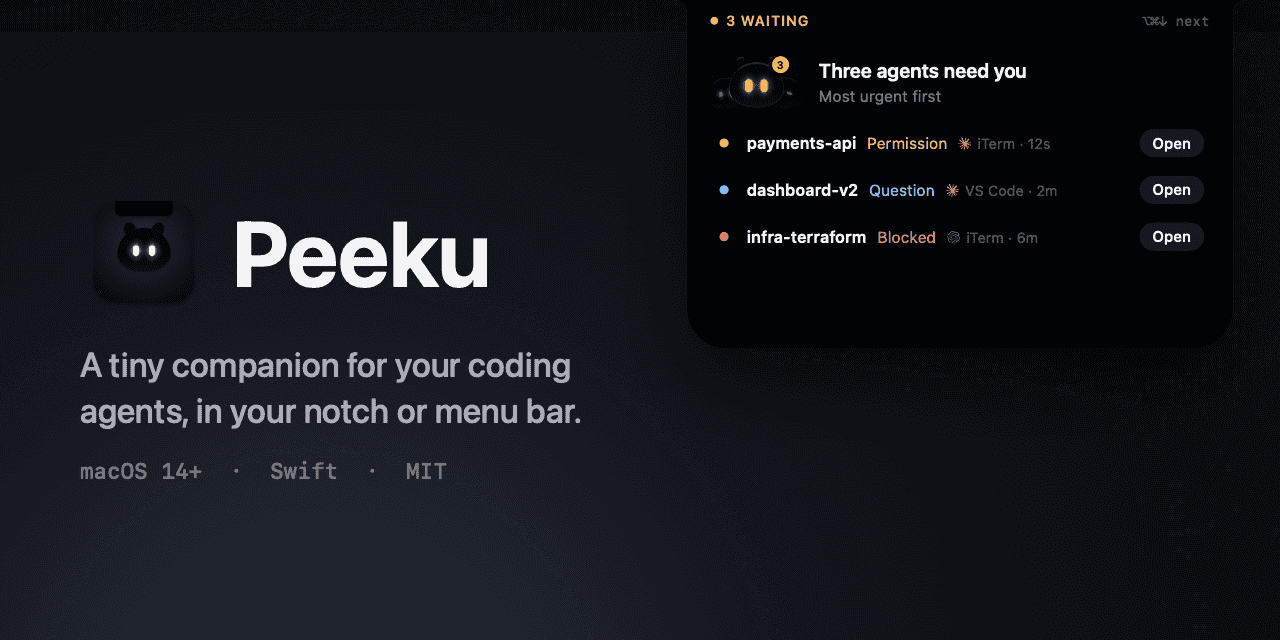
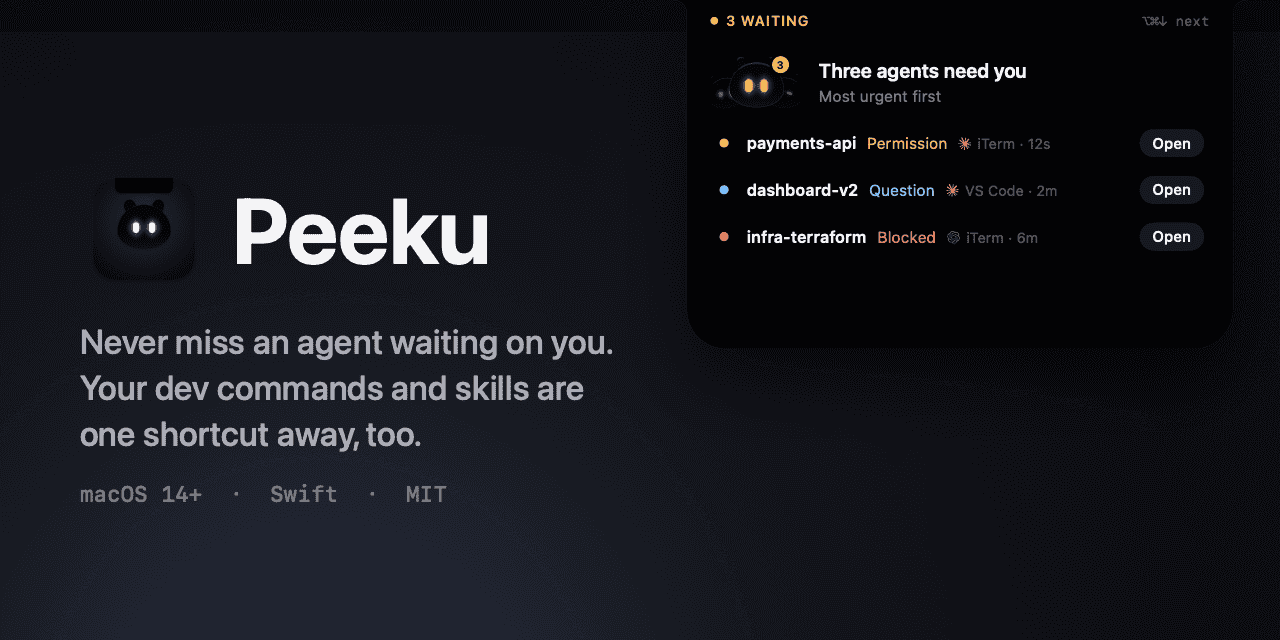
New tagline, and a shorter website
Leads with "Never miss an agent waiting on you" and mentions Commands and Skills in the README, site hero, meta tags and social preview. Cuts the site's repeated content: feature tiles that restated a story row, the second screenshot gallery and the light-mode row.

Changed region(s): [[0.0625, 0.5, 0.4688, 0.7812], [0.1875, 0.3125, 0.4062, 0.4688], [0.0938, 0.2812, 0.1562, 0.4375]]

diff --git a/docs/index.html b/docs/index.html
@@ -4,7 +4,7 @@
 <meta charset="utf-8">
 <meta name="viewport" content="width=device-width, initial-scale=1">
 <title>Peeku: a tiny companion for your coding agents</title>
-<meta name="description" content="A tiny companion for your coding agents. It lives in your notch or menu bar and tells you when Claude Code or Codex needs you.">
+<meta name="description" content="Never miss an agent waiting on you. Peeku peeks out when Claude Code or Codex needs you. Your dev commands and skills are one shortcut away, too.">
 <meta name="theme-color" content="#0d0e12">
 <link rel="canonical" href="https://peeku.ahrefabhi.com/">
 <link rel="icon" type="image/png" href="images/icon.png">
@@ -12,7 +12,7 @@
 <meta property="og:type" content="website">
 <meta property="og:site_name" content="Peeku">
 <meta property="og:title" content="Peeku: a tiny companion for your coding agents">
-<meta property="og:description" content="A tiny companion for your coding agents. It lives in your notch or menu bar and tells you when Claude Code or Codex needs you.">
+<meta property="og:description" content="Never miss an agent waiting on you. Peeku peeks out when Claude Code or Codex needs you. Your dev commands and skills are one shortcut away, too.">
 <meta property="og:url" content="https://peeku.ahrefabhi.com/">
 <meta property="og:image" content="https://peeku.ahrefabhi.com/images/social-preview.png">
 <meta property="og:image:width" content="1280">
@@ -20,7 +20,7 @@
 <meta property="og:image:alt" content="Peeku, a tiny companion in your notch, showing three agents that need you: a permission request, a question and a blocked run">
 <meta name="twitter:card" content="summary_large_image">
 <meta name="twitter:title" content="Peeku: a tiny companion for your coding agents">
-<meta name="twitter:description" content="A tiny companion for your coding agents. It lives in your notch or menu bar and tells you when Claude Code or Codex needs you.">
+<meta name="twitter:description" content="Never miss an agent waiting on you. Peeku peeks out when Claude Code or Codex needs you. Your dev commands and skills are one shortcut away, too.">
 <meta name="twitter:image" content="https://peeku.ahrefabhi.com/images/social-preview.png">
 <meta name="twitter:image:alt" content="Peeku, a tiny companion in your notch, showing three agents that need you: a permission request, a question and a blocked run">
 <link rel="stylesheet" href="site.css">
@@ -89,8 +89,8 @@
       <button type="button" class="chip" data-ev="success"><i style="background:var(--green)"></i>Finished</button>
       <button type="button" class="chip" data-ev="usage"><i style="background:var(--amber)"></i>Usage alert</button>
     </div>
-    <h1>A tiny creature in your notch or menu bar that watches over your agents.</h1>
-    <p class="hero-sub">A tiny companion for your coding agents. It lives in your notch or menu bar and tells you when Claude Code or Codex needs you.</p>
+    <h1>Never miss an agent waiting on you.</h1>
+    <p class="hero-sub">Peeku peeks out when Claude Code or Codex needs you. Your dev commands and skills are one shortcut away, too.</p>
     <div class="hero-ctas">
       <a href="https://github.com/ahrefabhi/peeku/releases/latest" class="btn-primary">Download for macOS</a>
       <a href="https://github.com/ahrefabhi/Peeku" class="btn-secondary">View on GitHub</a>
@@ -134,7 +134,7 @@
     <div class="flow-text">
       <span class="eyebrow" style="color:rgba(235,235,245,.55)">04 · NOTCH OR MENU BAR</span>
       <h2 class="h-md">No notch? It lives in the menu bar.</h2>
-      <p class="lede">On an external display or an older MacBook there's no fake notch. Peeku moves into its own menu bar icon, and the icon's eyes show what it's doing. When an agent needs you, Peeku climbs down from the icon and holds the alert. Prefer it there on a MacBook too? Pick Menu Bar in Settings.</p>
+      <p class="lede">On an external display or an older MacBook, Peeku lives in its own menu bar icon and climbs down from it when an agent needs you. Prefer it there on a MacBook too? Pick Menu Bar in Settings.</p>
     </div>
     <img class="shot" src="images/menu-bar-alert.png" alt="On a display without a notch, Peeku hangs from its menu bar icon above a frosted panel: Claude needs your permission to run npm install stripe@17.2.0" width="1520" height="660" loading="lazy" decoding="async">
   </div>
@@ -150,40 +150,15 @@
     <div class="flow-text">
       <span class="eyebrow" style="color:var(--blue)">06 · YOUR SKILLS</span>
       <h2 class="h-md">Every skill your agents load, in one place.</h2>
-      <p class="lede">See what Claude Code and Codex load, globally and in each project, and turn a plugin off without uninstalling it. Browse their marketplaces, see where each plugin's code lives, and install one for everything or just one project. Add your own skill folders, or share one with the other agent. Press ⌥⌘/.</p>
+      <p class="lede">See every plugin and skill Claude Code and Codex load, globally and per project. Browse their marketplaces, install for everything or just one project, and turn plugins off without uninstalling. Press ⌥⌘/.</p>
     </div>
     <img class="shot" src="images/skills-flow.png" alt="Skills in two panels. Installed: a panel to add a skill folder for Claude globally, superpowers expanded with its four skills and a switch, code-review turned off, GitHub for Codex and a changelog skill. Discover: marketplace plugins with install counts and GitHub links, and playwright asking to install for the payments-api project" width="1520" height="960" loading="lazy" decoding="async">
   </div>
 </section>
 
 <section id="features" class="section">
-  <h2 class="h-lg features-title">Everything it does, and nothing it doesn't.</h2>
+  <h2 class="h-lg features-title">And the little things.</h2>
   <div class="bento">
-
-    <div class="tile wide">
-      <div class="tile-vis why" aria-hidden="true">
-        <div data-pip="question" data-size="56"></div>
-        <div class="why-list">
-          <div style="--c:var(--amber)"><span>$ npm install stripe@17.2.0</span></div>
-          <div style="--c:var(--blue)"><span>Reuse &lt;Popover&gt;, or build a new &lt;ChartTooltip&gt;?</span></div>
-          <div style="--c:var(--red)"><span>Error acquiring the state lock</span></div>
-          <div style="--c:var(--green)"><span>Migrated 14 pages to MDX · build passes</span></div>
-        </div>
-      </div>
-      <div class="tile-body"><b>Knows why a session is waiting.</b><span>Permission requests show the exact command, questions show their choices, errors show the error, and finished runs show the agent's last reply.</span></div>
-    </div>
-
-    <div class="tile">
-      <div class="tile-vis" aria-hidden="true">
-        <div class="mini-win">
-          <div class="mini-win-bar"><i></i><i></i><i></i></div>
-          <div class="mini-win-tabs"><span>docs</span><span class="on"><i></i>payments</span><span>infra</span></div>
-          <div class="mini-win-body"><div class="amber">╭─ Bash</div><div>│ npm install stripe@17.2.0</div><div class="amber">│ ❯ 1. Yes</div><div class="dim">│   2. No</div><div class="mini-win-ring"></div></div>
-        </div>
-      </div>
-      <div class="tile-body"><b>Takes you to the right place.</b><span>Opens the precise iTerm tab, Terminal tab or VS Code window, and outlines it with a brief focus ring.</span></div>
-    </div>
-
     <div class="tile">
       <div class="tile-vis" aria-hidden="true">
         <div class="queue">
@@ -197,13 +172,6 @@
         <kbd class="kbd-float">⌥⌘↓</kbd>
       </div>
       <div class="tile-body"><b>One queue, most urgent first.</b><span>Several agents waiting become one list: permission, then questions, then errors, oldest first. Cycle through it with ⌥⌘↓.</span></div>
-    </div>
-
-    <div class="tile wide">
-      <div class="tile-vis glance">
-        <img src="images/manager.png" alt="Session manager" width="1520" height="1340" loading="lazy" decoding="async">
-      </div>
-      <div class="tile-body"><b>Every session at a glance.</b><span>Click the notch or the menu bar icon for a live list of what's waiting, working and finished, plus a week of history. Any row jumps to its session.</span></div>
     </div>
 
     <div class="tile">
@@ -228,20 +196,6 @@
       <div class="tile-body"><b>Knows what you spent.</b><span>What today, the last 7 or the last 30 days cost at API prices, the tokens used, and a bar per day split by model.</span></div>
     </div>
 
-    <div class="tile wide">
-      <div class="tile-vis glance">
-        <img src="images/commands.png" alt="Commands in the session manager: a dev server running, a worker that exited, and a docs preview waiting for input" width="1520" height="1340" loading="lazy" decoding="async">
-      </div>
-      <div class="tile-body"><b>Runs your dev commands.</b><span>Commands lives in the dock at the bottom of the session manager, never in the tabs. Start, restart and stop saved commands, read their output, answer their prompts, and see how many are running at a glance.</span></div>
-    </div>
-
-    <div class="tile wide">
-      <div class="tile-vis glance">
-        <img src="images/skills.png" alt="Skills in the session manager: Claude Code and Codex plugins and skills, globally and per project, with a switch to turn a plugin off" width="1520" height="1340" loading="lazy" decoding="async">
-      </div>
-      <div class="tile-body"><b>Manages your skills.</b><span>Skills sits in the dock too. Browse the Claude Code and Codex marketplaces, install a plugin for everything or one project, turn it off, uninstall it, and add or share skill folders between agents.</span></div>
-    </div>
-
     <div class="tile">
       <div class="tile-vis sounds" aria-hidden="true">
         <div class="sound"><div class="eq" style="--c:var(--amber);--d:0s"><i></i><i></i><i></i><i></i><i></i></div><span>Permission</span></div>
@@ -250,14 +204,6 @@
         <div class="sound"><div class="eq" style="--c:var(--green);--d:.6s"><i></i><i></i><i></i><i></i><i></i></div><span>Finished</span></div>
       </div>
       <div class="tile-body"><b>Sounds you can tell apart.</b><span>A different chime for permission, questions, errors and finished runs, each one changeable or silenced in Settings.</span></div>
-    </div>
-
-    <div class="tile">
-      <div class="tile-vis away" aria-hidden="true">
-        <div class="pill"><div class="pill-pip"><div data-pip="multiple" data-size="20" data-opts="flat,noBadge"></div></div><div class="pill-count">3</div></div>
-        <div class="fullscreen"><div></div><span>full screen</span></div>
-      </div>
-      <div class="tile-body"><b>Stays out of the way.</b><span>Unanswered alerts fold into a small pill. In full screen Peeku shrinks to a thin glow, and it goes quiet while Zoom shares your screen or when you ask it to.</span></div>
     </div>
 
     <div class="tile">
@@ -278,57 +224,26 @@
       </div>
       <div class="tile-body"><b>Private.</b><span>Your sessions stay on your Mac. The only network request Peeku makes is its update check to GitHub. Plugins you choose to install are downloaded by Claude Code or Codex.</span></div>
     </div>
-
-    <div class="tile">
-      <div class="tile-vis native" aria-hidden="true">
-        <div class="native-half"><div data-pip="success" data-size="50"></div></div>
-        <div class="native-half light"><div data-pip="success" data-size="50" data-ring="#eceef3"></div></div>
-        <div class="native-badge"><b>6 MB</b><span>Swift · SwiftUI</span></div>
-      </div>
-      <div class="tile-body"><b>Native.</b><span>Swift and SwiftUI, light and dark mode, Reduce Motion, about 6 MB.</span></div>
-    </div>
-
   </div>
 </section>
 
 <section class="section closer">
   <div class="closer-head">
-    <h2 class="h-lg">Every session, at a glance.</h2>
-    <p>Click the notch or the menu bar icon for a live list of what's waiting, working and finished, plus a week of history. Any row jumps to its session.</p>
+    <h2 class="h-lg">The whole app, one click away.</h2>
+    <p>Click the notch or the menu bar icon: every session up top, your dev commands and skills in the dock below.</p>
   </div>
   <div class="shots">
     <figure>
       <img src="images/manager.png" alt="The session manager with sessions that need you, working and finished" width="1520" height="1340" loading="lazy" decoding="async">
-      <figcaption><b>Session manager</b><span>What needs you, what's working, what finished.</span></figcaption>
+      <figcaption><b>Sessions</b><span>What needs you, what's working, what finished. Press ⌥⌘, to open it.</span></figcaption>
     </figure>
-    <figure>
-      <img src="images/history.png" alt="History of today's permission requests, finished runs and errors" width="1520" height="1340" loading="lazy" decoding="async">
-      <figcaption><b>History</b><span>A week of permission requests, errors and finished runs.</span></figcaption>
-    </figure>
-    <figure>
-      <img src="images/usage.png" alt="The Usage tab with spend and Claude and Codex limits" width="1520" height="1340" loading="lazy" decoding="async">
-      <figcaption><b>Usage</b><span>What you spent, and your 5-hour and weekly limits for Claude and Codex.</span></figcaption>
-    </figure>
-  </div>
-</section>
-
-<section class="section closer">
-  <div class="closer-head">
-    <h2 class="h-lg">Utilities in the dock. Settings behind the gear.</h2>
-    <p>The tabs at the top are always about your agents. Commands and Skills sit in the footer dock, and everything you can change is one click away in the same panel.</p>
-  </div>
-  <div class="shots">
     <figure>
       <img src="images/commands.png" alt="Commands: Dashboard running npm run dev, payments-api exited with code 1, and Docs waiting for input on a port question" width="1520" height="1340" loading="lazy" decoding="async">
       <figcaption><b>Commands</b><span>Your dev servers and workers, with their latest output. Press ⌥⌘. to open it.</span></figcaption>
     </figure>
     <figure>
       <img src="images/skills-discover.png" alt="Skills, Discover: Claude Code and Codex marketplace plugins with install counts, and playwright asking which project to install into before it runs" width="1520" height="1340" loading="lazy" decoding="async">
-      <figcaption><b>Skills</b><span>Every plugin and skill both agents load. Install globally or into one project. Press ⌥⌘/ to open it.</span></figcaption>
-    </figure>
-    <figure>
-      <img src="images/settings.png" alt="Settings inside the session manager: appearance, notch or menu bar, login, updates and notifications" width="1520" height="1340" loading="lazy" decoding="async">
-      <figcaption><b>Settings</b><span>Opened from the gear, in the same panel. No separate window.</span></figcaption>
+      <figcaption><b>Skills</b><span>Every plugin and skill both agents load. Press ⌥⌘/ to open it.</span></figcaption>
     </figure>
   </div>
 </section>
@@ -344,14 +259,6 @@
     <div class="mood"><div class="mood-pip" aria-hidden="true"><div data-pip="error" data-size="60" data-opts="z"></div></div><span>Error</span></div>
     <div class="mood"><div class="mood-pip" aria-hidden="true"><div data-pip="success" data-size="60" data-opts="z"></div></div><span>Success</span></div>
     <div class="mood"><div class="mood-pip" aria-hidden="true"><div data-pip="group" data-size="54"></div></div><span>Multiple</span></div>
-  </div>
-</section>
-
-<section class="section light-row">
-  <img class="shot" src="images/light.png" alt="Light mode: Peeku hangs below the black notch above a frosted light panel" width="1520" height="640" loading="lazy" decoding="async">
-  <div class="flow-text">
-    <h2 class="h-md">Native, light and dark.</h2>
-    <p class="lede">The notch stays black, so Peeku hangs from it and holds a light panel instead. Swift and SwiftUI, Reduce Motion, about 6 MB.</p>
   </div>
 </section>
 

diff --git a/Sources/Peeku/Debug/ReadmeImages.swift b/Sources/Peeku/Debug/ReadmeImages.swift
@@ -342,7 +342,7 @@ private struct SocialPreview: View {
                         AppIconView().scaleEffect(128 / AppIconView.canvas).frame(width: 128, height: 128)
                         Text("Peeku").font(.peeku(92, .bold)).foregroundStyle(Tokens.textPrimary)
                     }
-                    Text("A tiny companion for your coding agents, in your notch or menu bar.")
+                    Text("Never miss an agent waiting on you. Your dev commands and skills are one shortcut away, too.")
                         .font(.peeku(34, .medium))
                         .foregroundStyle(Color.label(0.7))
                         .lineSpacing(6)

diff --git a/README.md b/README.md
@@ -5,7 +5,7 @@
 <h1 align="center">Peeku</h1>
 
 <p align="center">
-  <strong>A tiny companion for your coding agents. It lives in your notch or menu bar and tells you when Claude Code or Codex needs you.</strong>
+  <strong>Never miss an agent waiting on you. Peeku peeks out when Claude Code or Codex needs you. Your dev commands and skills are one shortcut away, too.</strong>
 </p>
 
 <p align="center">
